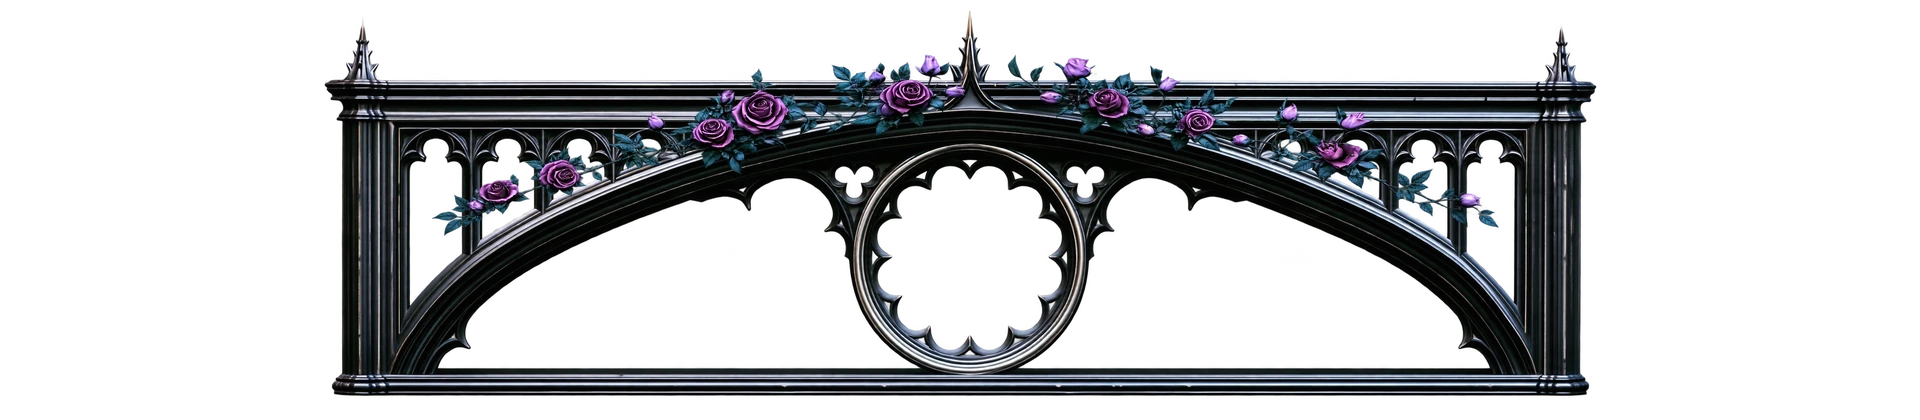
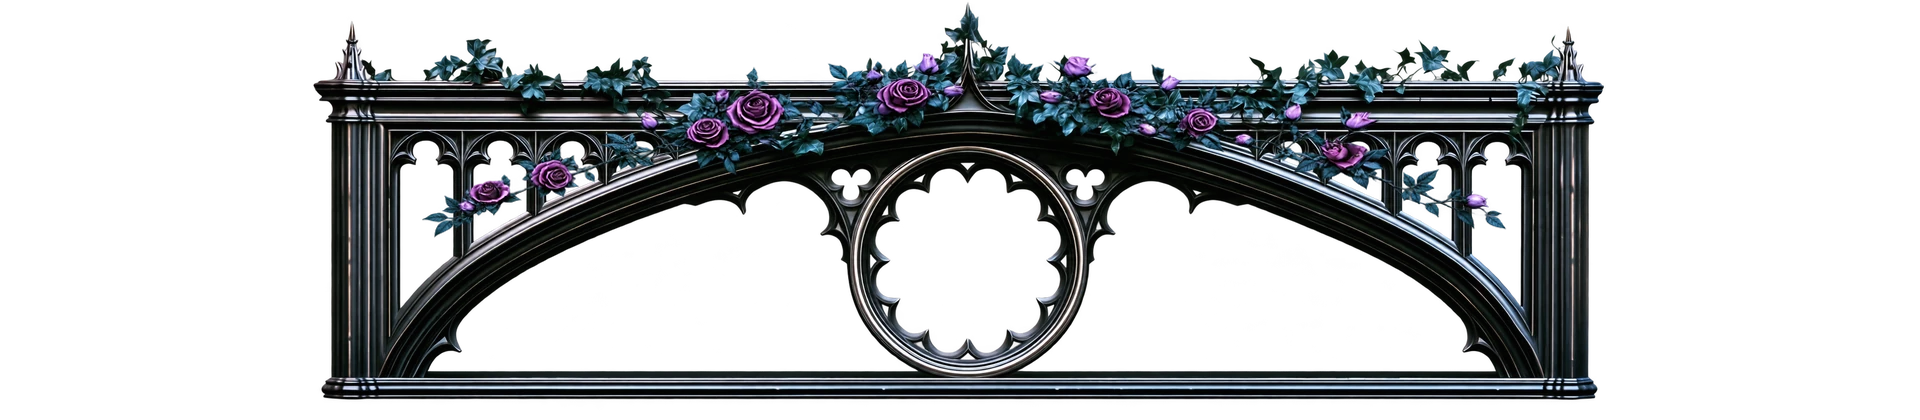
feat(cathedral): bloom crown keeps its ivy
The Hushthorn Blooms (42) comes after Creeping Ivy (3), but the bloom
crown was the plain frame plus roses, so the ivy vanished on the last
bookcase at 42. The owner's rose layer is now composited onto the ivy
crown (mapped from the plain frame's geometry to the ivy frame's: stile
centres 367/1555 -> 356/1563, base row 395 -> 399, scale 1.016). Source:
output/cathedral-v1/ivy-bloom-crown-no-pillar.png. Bloom now shares ivy's
CROWN_GEOM; verified live at peak 42: stiles on pilasters within 0.2px,
window centred on its opening.

Changed region(s): [[0.1562, 0.031, 0.8438, 0.9595]]

diff --git a/src/App.jsx b/src/App.jsx
@@ -1931,12 +1931,13 @@ const crownFor = (peak, isLast) => (peak >= 42 && isLast ? "bloom-garland" : pea
 // Pillar-less frame crowns (output/cathedral-v1/*-no-pillar.png), measured
 // from each webp (1920x420 source px): colL/colR are the centres of the two
 // ~50px side stiles (they sit on the pilasters), `bottom` the last opaque row,
-// and the cusped window opening (centre + reach). Bloom is the crown plus
-// roses, so it shares crown's frame; ivy's frame is a touch wider.
+// and the cusped window opening (centre + reach). Bloom is the ivy crown with
+// the rose layer mapped onto it (output/cathedral-v1/ivy-bloom-crown-no-pillar.png),
+// so it shares ivy's frame — ivy never disappears once earned.
 const CROWN_GEOM = {
   "crown":         { colL: 367.0, colR: 1555.0, bottom: 395, hx: 969.0, hy: 257.5, hr: 91.0 },
   "ivy-crown":     { colL: 356.0, colR: 1563.0, bottom: 399, hx: 967.5, hy: 260.0, hr: 91.5 },
-  "bloom-garland": { colL: 367.0, colR: 1555.0, bottom: 395, hx: 969.0, hy: 257.5, hr: 91.0 },
+  "bloom-garland": { colL: 356.0, colR: 1563.0, bottom: 399, hx: 967.5, hy: 260.0, hr: 91.5 },
 };
 const CROWN_COL_W = 50;   // side stile width (all three) = pilaster width
 const CROWN_SHAFT_W = 35; // column shaft width (all three)
